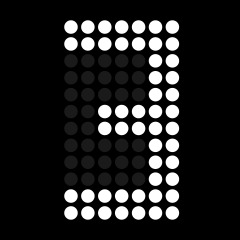
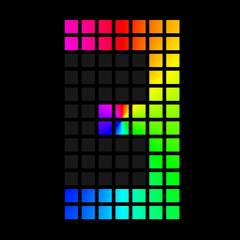
Now clock faces

Changed region(s): [[0.2625, 0.0583, 0.7583, 0.9333], [0.7875, 0.3208, 0.8167, 0.35], [0.7875, 0.2042, 0.8167, 0.2333]]

diff --git a/images/ClockWidget/custom/THANKS.md b/images/ClockWidget/custom/THANKS.md
@@ -1,0 +1,11 @@
+# Acknowledgements
+
+The currently ship the following custom clocks:
+
+## Custom Clock 0
+Style: Rainbow Dot Clock
+Author: @andrea in Discord
+
+## Custom Clock 1
+Style: White Dot Clock (perfect for color override in WebPortal)
+Author: @andrea in Discord
